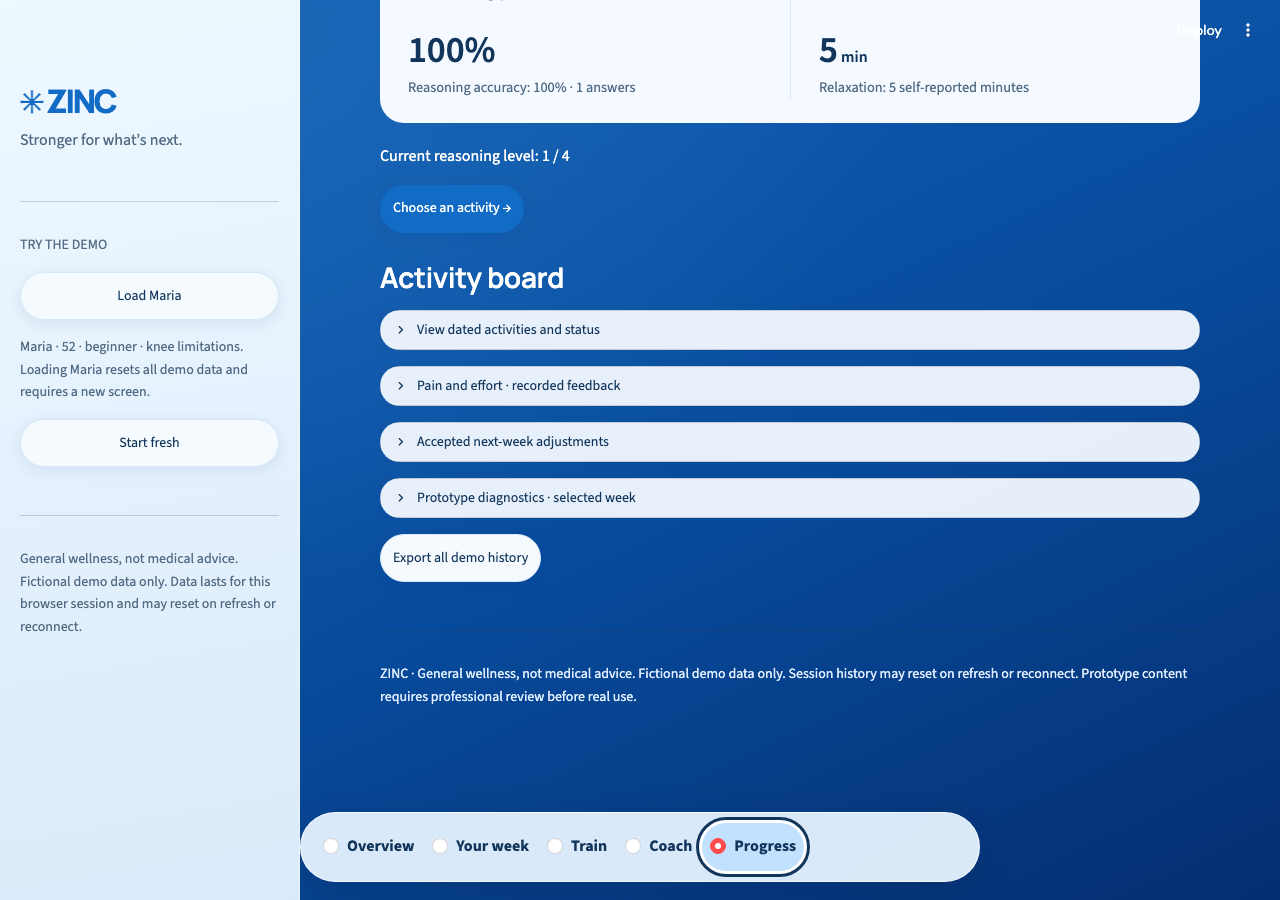
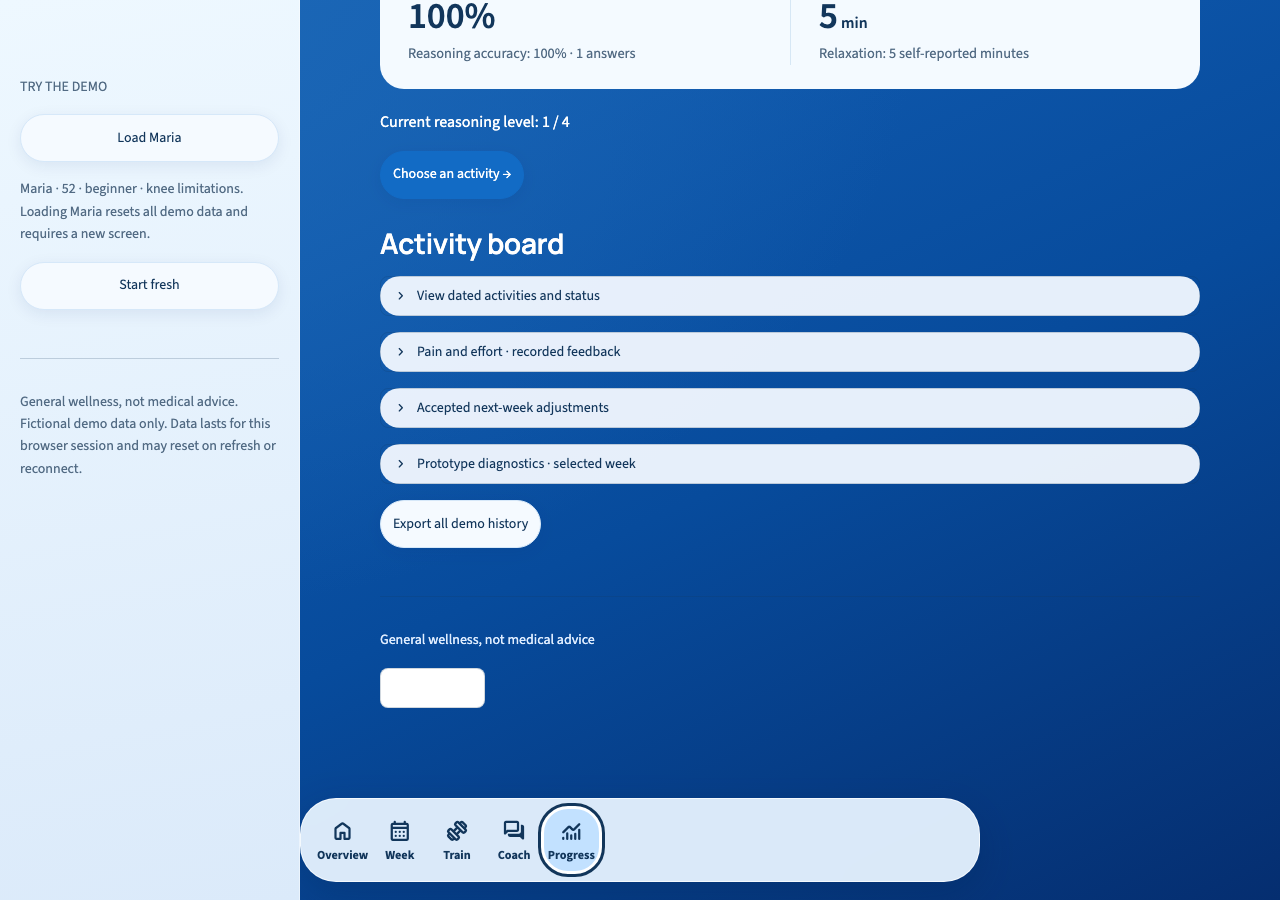
polish(1.6): plain language and readable activity states

diff --git a/app/aquatic.css b/app/aquatic.css
@@ -33,7 +33,7 @@ input,textarea{caret-color:#126bc5}
 .st-key-navigation [role="radiogroup"] label>div:not(:last-child){position:absolute;width:1px;height:1px;overflow:hidden;clip-path:inset(50%)}
 
 /* 1.1 — Product canvas, with Streamlit's deployment controls out of the way. */
-[data-testid="stToolbar"],[data-testid="stDecoration"],[data-testid="stAppDeployButton"],button[kind="header"]{display:none!important}
+[data-testid="stToolbar"],[data-testid="stDecoration"],[data-testid="stAppDeployButton"]{display:none!important}
 [data-testid="stHeader"]{background:transparent}
 
 /* 1.2 — Five equal native radio tabs, with decorative circles visually clipped. */
@@ -45,3 +45,9 @@ input,textarea{caret-color:#126bc5}
 .st-key-navigation label:has(input:checked){background:#c2e1ff!important;color:#0758aa}
 
 .brand-row{display:flex;align-items:center;gap:16px;flex-wrap:wrap}.demo-pill{font-size:.7rem;letter-spacing:.03em;border:1px solid #ffffff60;border-radius:20px;padding:3px 10px;background:#ffffff16;color:#f4faff}
+
+.st-key-navigation [data-testid="stRadioOption"]>div>div:first-child{display:none!important}
+.st-key-navigation [data-testid="stMarkdownContainer"] span[role="img"]{font-size:24px!important}
+/* Streamlit places the sidebar affordance inside its toolbar on mobile. */
+[data-testid="stToolbar"]:has([data-testid="stExpandSidebarButton"]){display:flex!important}
+[data-testid="stToolbarActions"],[data-testid="stMainMenu"]{display:none!important}

diff --git a/app/app.py b/app/app.py
@@ -225,12 +225,16 @@ def status(activity):
     return s['activity_sessions'].get(activity['id'], {}).get('status', 'not started')
 
 
+def status_label(activity):
+    return {'not started': 'Not started', 'partial': 'In progress', 'completed': 'Done', 'skipped': 'Skipped'}.get(status(activity), status(activity))
+
+
 def show_schedule():
     for activity in plan['activities']:
         label = LABELS[activity['section']]
         with st.container(border=True):
             st.subheader(f"{nice_date(activity['date'])} · {label}")
-            st.write(f"{activity['minutes']} min estimated · {status(activity).title()} · {BADGES[activity['section']]} evidence")
+            st.write(f"{activity['minutes']} min estimated · {status_label(activity)} · {BADGES[activity['section']]} evidence")
             st.caption({'strength': 'Large-muscle patterns and supported balance. Record repetitions, effort and pain after every set.', 'yoga': 'Five guided pose cards with supported alternatives and feedback.', 'brain': 'Five reasoning and pattern puzzles. Difficulty follows your answers.', 'relaxation': 'Slow breathing: five seconds in, five seconds out. Choose three or five minutes.'}[activity['section']])
             session = s['activity_sessions'].get(activity['id'])
             if st.button('Review' if session and session['finished'] else 'Resume' if session else 'Start activity', key='start_' + activity['id']):
@@ -303,7 +307,7 @@ if page == 'Overview':
             if item['id'] in s['next_plan']['adjusted_exercises']:
                 st.write(f"{item['name']}: {current['reps']} → {item['reps']} {item['unit']}")
     else:
-        st.write('Your current prescriptions carry forward unless you accept a coach proposal.')
+        st.write('No changes yet. Your coach will suggest next week’s goal at check-in.')
     if st.button('Start next week'):
         try:
             engine.start_next_week(s)
@@ -312,8 +316,9 @@ if page == 'Overview':
             st.error(str(exc))
 
 elif page == 'Your week':
-    st.title('Your week, all four sections.')
-    st.caption('Durations are prototype estimates, not measured exercise time. Source badges describe strength, function, trained reasoning or stress outcomes, never disease outcomes.')
+    st.title('Your week')
+    with st.popover('About activity estimates'):
+        st.write('Durations are estimates, not measured exercise time. Source badges describe strength, function, trained reasoning or stress outcomes, never disease outcomes.')
     with st.expander('Add an optional activity'):
         with st.form('add_activity'):
             added_section = st.selectbox('Activity type', list(LABELS), index=3, format_func=LABELS.get)
@@ -335,7 +340,7 @@ elif page == 'Your week':
     st.caption('The speed game is not scored or included in progress. Reasoning games are fully playable.')
 
 elif page == 'Train':
-    st.title('One activity at a time.')
+    st.title(LABELS[engine.active_session(s)['section']] if s['active_activity'] else 'Choose your activity')
     if not s['active_activity']:
         st.info('Choose a dated activity from Your week to begin.')
         if st.button('Choose an activity'):
@@ -413,7 +418,7 @@ elif page == 'Train':
                     st.info('This text check cannot assess symptoms. Press Stop whenever you feel unwell or uncertain.')
 
 elif page == 'Coach':
-    st.title('Guidance for your whole week.')
+    st.title('Your coach')
     st.write('Your personal coach can explain your scheduled activities, review your history and propose strength changes for next week. You decide whether to accept.')
     for message in s['messages']:
         with st.chat_message(message['role']):
@@ -519,4 +524,6 @@ elif page == 'Progress':
     st.download_button('Export all demo history', __import__('json').dumps({'profile': s['profile'], 'plan': plan, 'next_plan': s['next_plan'], 'history': s['history'], 'activity_sessions': s['activity_sessions'], 'logs': s['logs'], 'events': s['events']}, indent=2), file_name='zinc-history.json', mime='application/json')
 
 st.divider()
-st.caption('ZINC · General wellness, not medical advice. Fictional demo data only. Session history may reset on refresh or reconnect. Prototype content requires professional review before real use.')
+st.caption('General wellness, not medical advice')
+with st.popover('About ZINC'):
+    st.write('Fictional demo data only. Session history may reset on refresh or reconnect. Prototype content requires professional review before real use.')

diff --git a/app/verification/polish-notes.md b/app/verification/polish-notes.md
@@ -13,3 +13,7 @@ Task 3.3 exception: raw Markdown chat rendering is skipped because it reverses t
 - 1.4: pair related actions side by side. Full local suite passed (see task commit).
 
 - 1.5: one wordmark and a discreet demo pill. Full local suite passed (see task commit).
+
+- 1.6: plain language and readable activity states. Full local suite passed (see task commit).
+
+Phase 1 browser gate: PASS desktop 1280×900 and phone 390×844. Corrected nested radio-circle markup and preserved the mobile sidebar affordance inside Streamlit’s toolbar; deployment actions remain hidden.
